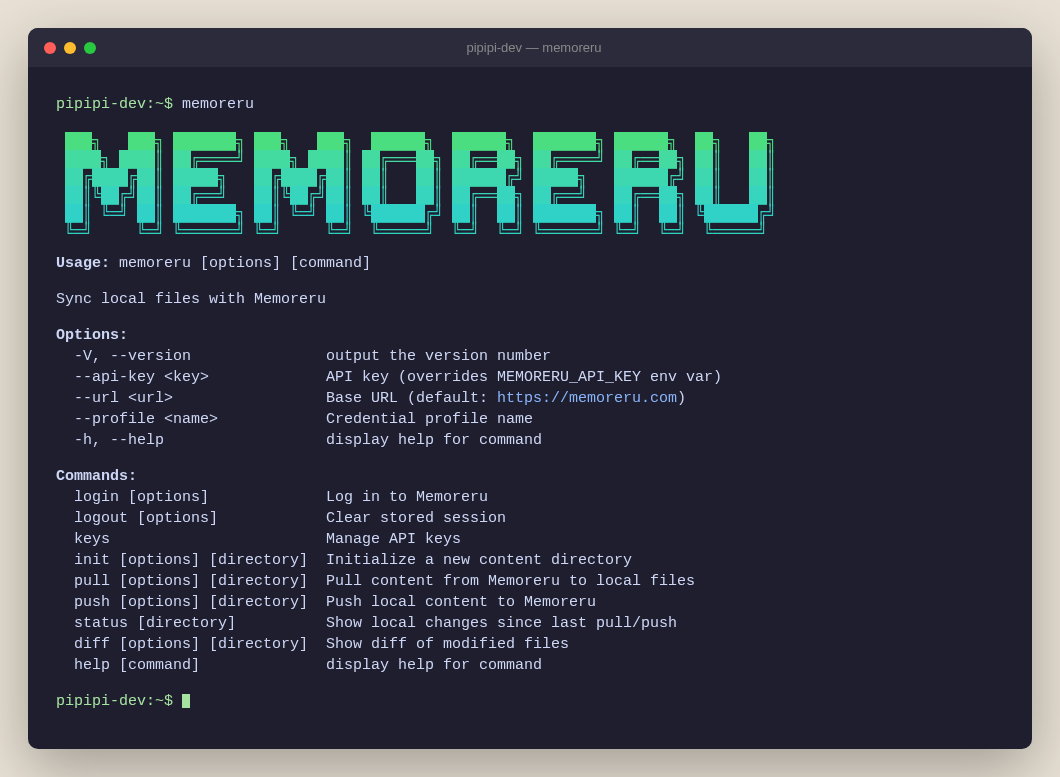
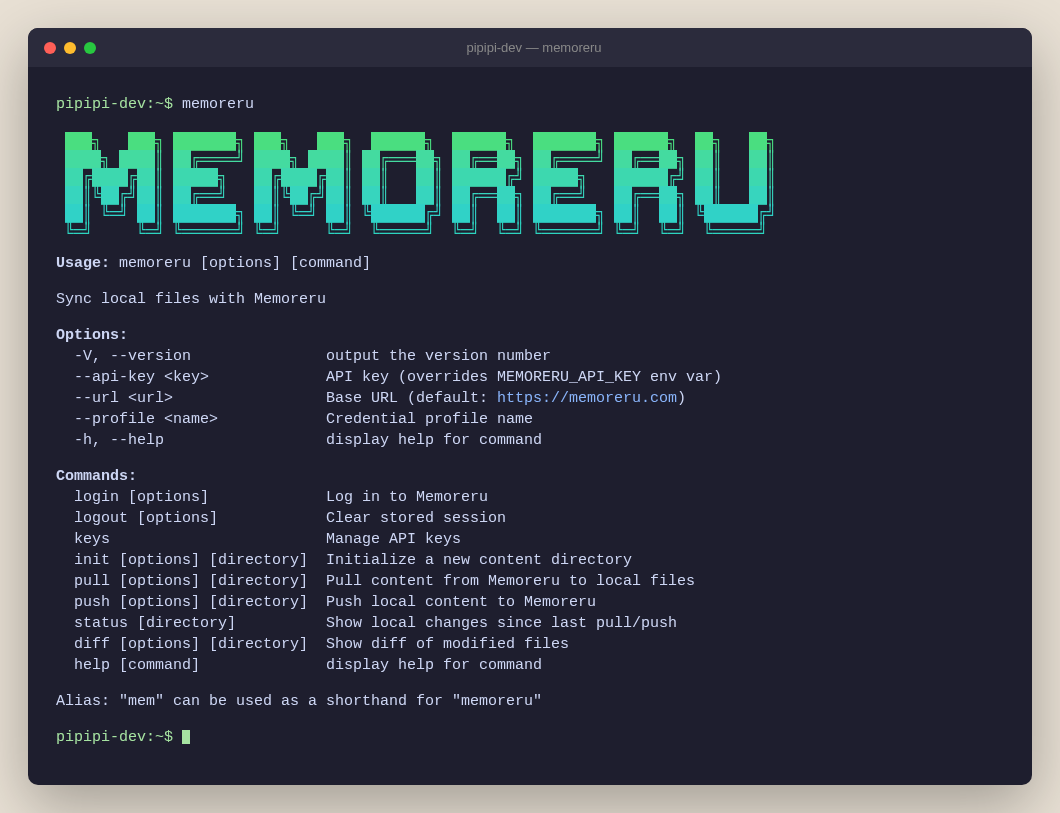
feat: v0.4.1 — "mem" shorthand alias for "memoreru" command

diff --git a/bin/memoreru.ts b/bin/memoreru.ts
@@ -4,7 +4,7 @@
  * Memoreru CLI — sync local files with Memoreru
  *
  * Usage:
- *   memoreru login [--profile <name>]
+ *   memoreru login [--profile <name>]       (or: mem login)
  *   memoreru logout [--profile <name>] [--all]
  *   memoreru keys create|list|revoke
  *   memoreru init [dir] [--type page|table|slide|folder]
@@ -12,6 +12,8 @@
  *   memoreru pull [dir] [--preview] [--profile <name>]
  *   memoreru status [dir]
  *   memoreru diff [dir] [--file <filename>]
+ *
+ * The "mem" shorthand is available as an alias for "memoreru".
  */
 
 import { createRequire } from 'module';
@@ -34,8 +36,9 @@ const { version } = require('../../package.json') as { version: string };
 const program = new Command();
 
 program
-  .name('memoreru')
+  .name(process.argv[1]?.endsWith('/mem') || process.argv[1]?.endsWith('\\mem') ? 'mem' : 'memoreru')
   .description('Sync local files with Memoreru')
+  .addHelpText('after', '\nAlias: "mem" can be used as a shorthand for "memoreru"')
   .version(version)
   .option('--api-key <key>', 'API key (overrides MEMORERU_API_KEY env var)')
   .option('--url <url>', 'Base URL (default: https://memoreru.com)')

diff --git a/skills/memoreru-cli/SKILL.ja.md b/skills/memoreru-cli/SKILL.ja.md
@@ -7,6 +7,8 @@ description: Memoreru CLI でローカルファイル（Markdown, CSV）と Memo
 
 ## コマンド
 
+> `mem` は `memoreru` の省略形エイリアスです。どちらでも同じように動作します。
+
 ```bash
 memoreru login [--profile <name>]
 memoreru logout [--profile <name>] [--all]

diff --git a/README.ja.md b/README.ja.md
@@ -30,6 +30,8 @@ npx @memoreru-sdk/cli --help
 npm install -g @memoreru-sdk/cli
 ```
 
+> 💡 `mem` は `memoreru` の省略形エイリアスです。どちらでも同じように動作します。
+
 ## 🌱 セットアップ
 
 ### 方法 A: CLI ログイン（推奨）

diff --git a/skills/memoreru-cli/SKILL.md b/skills/memoreru-cli/SKILL.md
@@ -7,6 +7,8 @@ description: Memoreru CLI syncs local files (Markdown, CSV) with Memoreru. Login
 
 ## Commands
 
+> `mem` is a shorthand alias for `memoreru`. Both work identically.
+
 ```bash
 memoreru login [--profile <name>]
 memoreru logout [--profile <name>] [--all]

diff --git a/README.md b/README.md
@@ -30,6 +30,8 @@ npx @memoreru-sdk/cli --help
 npm install -g @memoreru-sdk/cli
 ```
 
+> 💡 `mem` is a shorthand alias for `memoreru`. Both work identically.
+
 ## 🌱 Setup
 
 ### Option A: CLI Login (Recommended)
